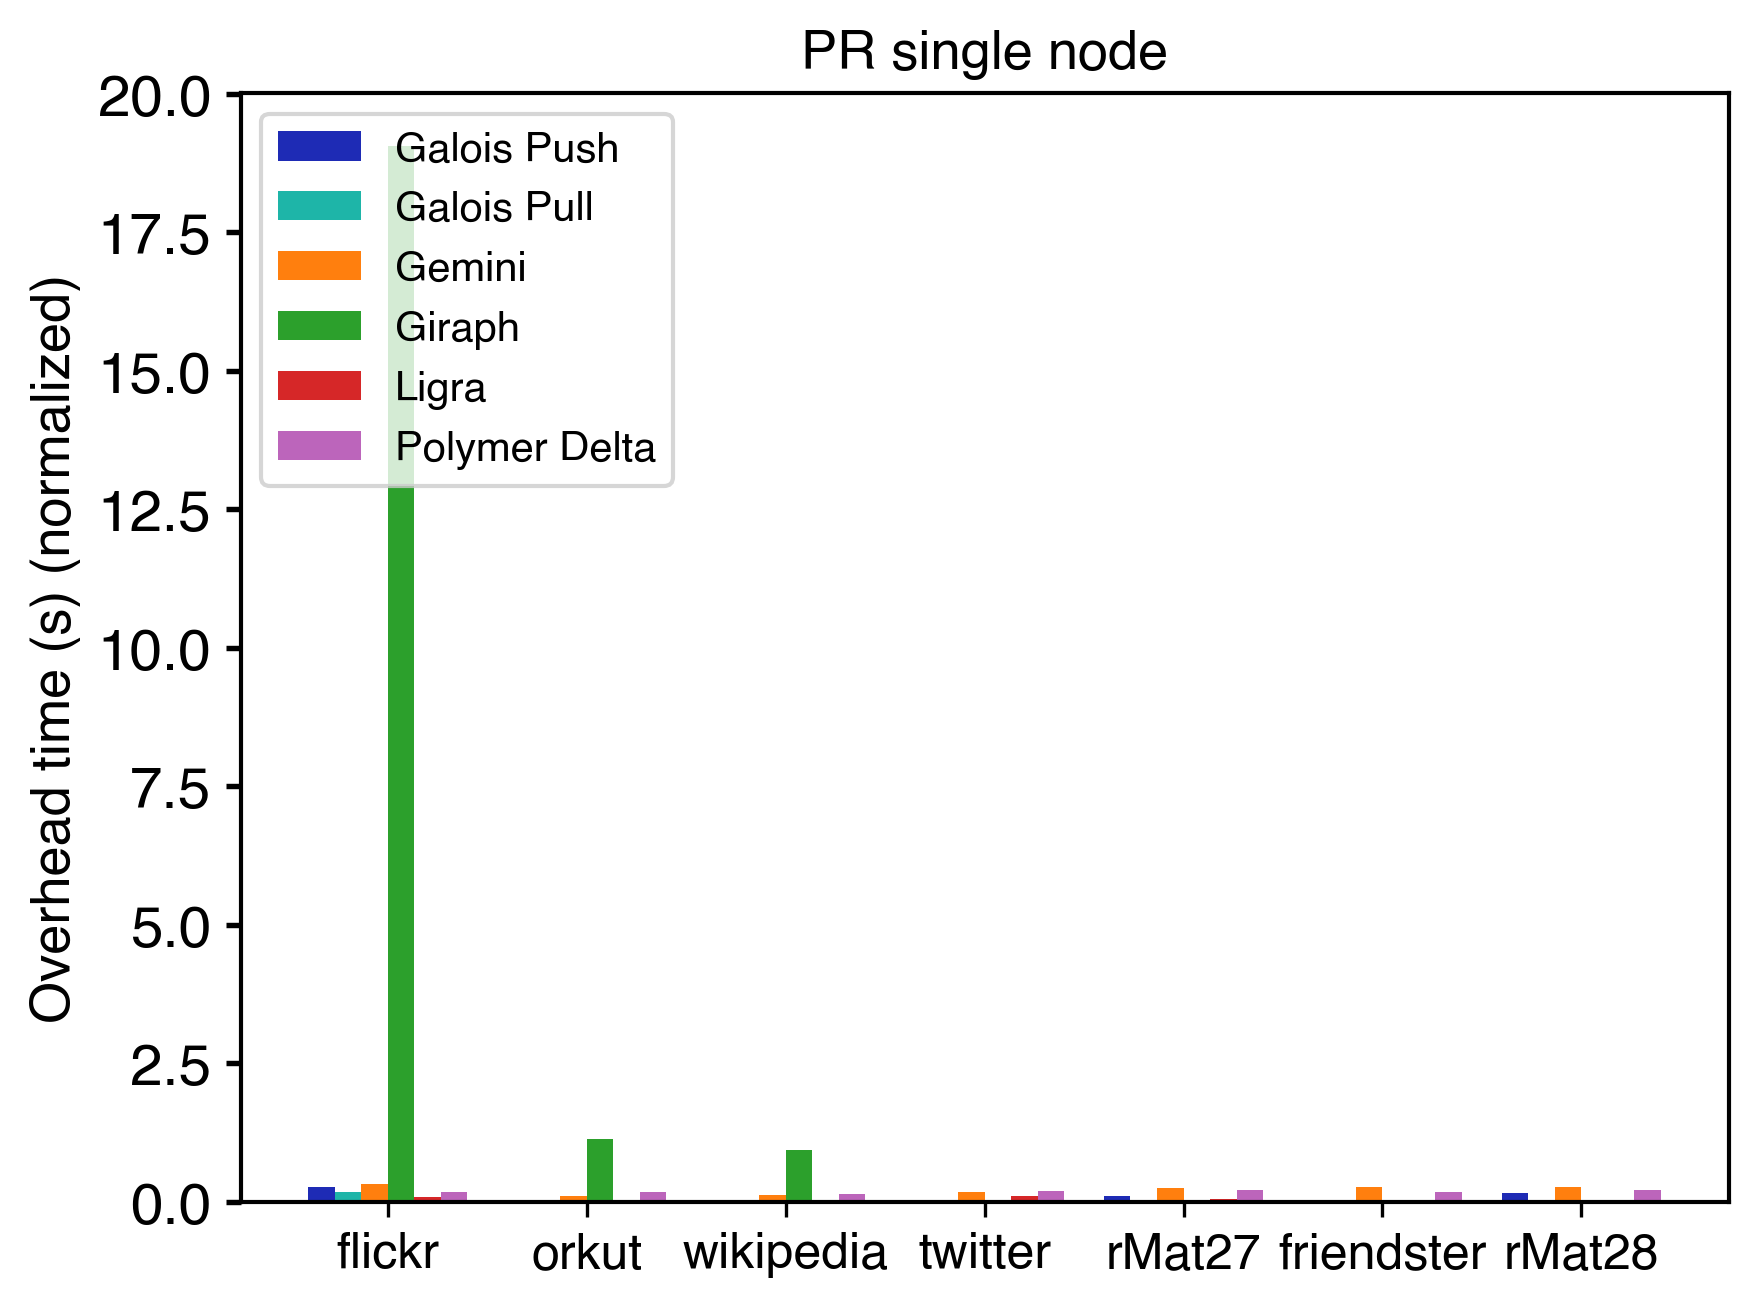
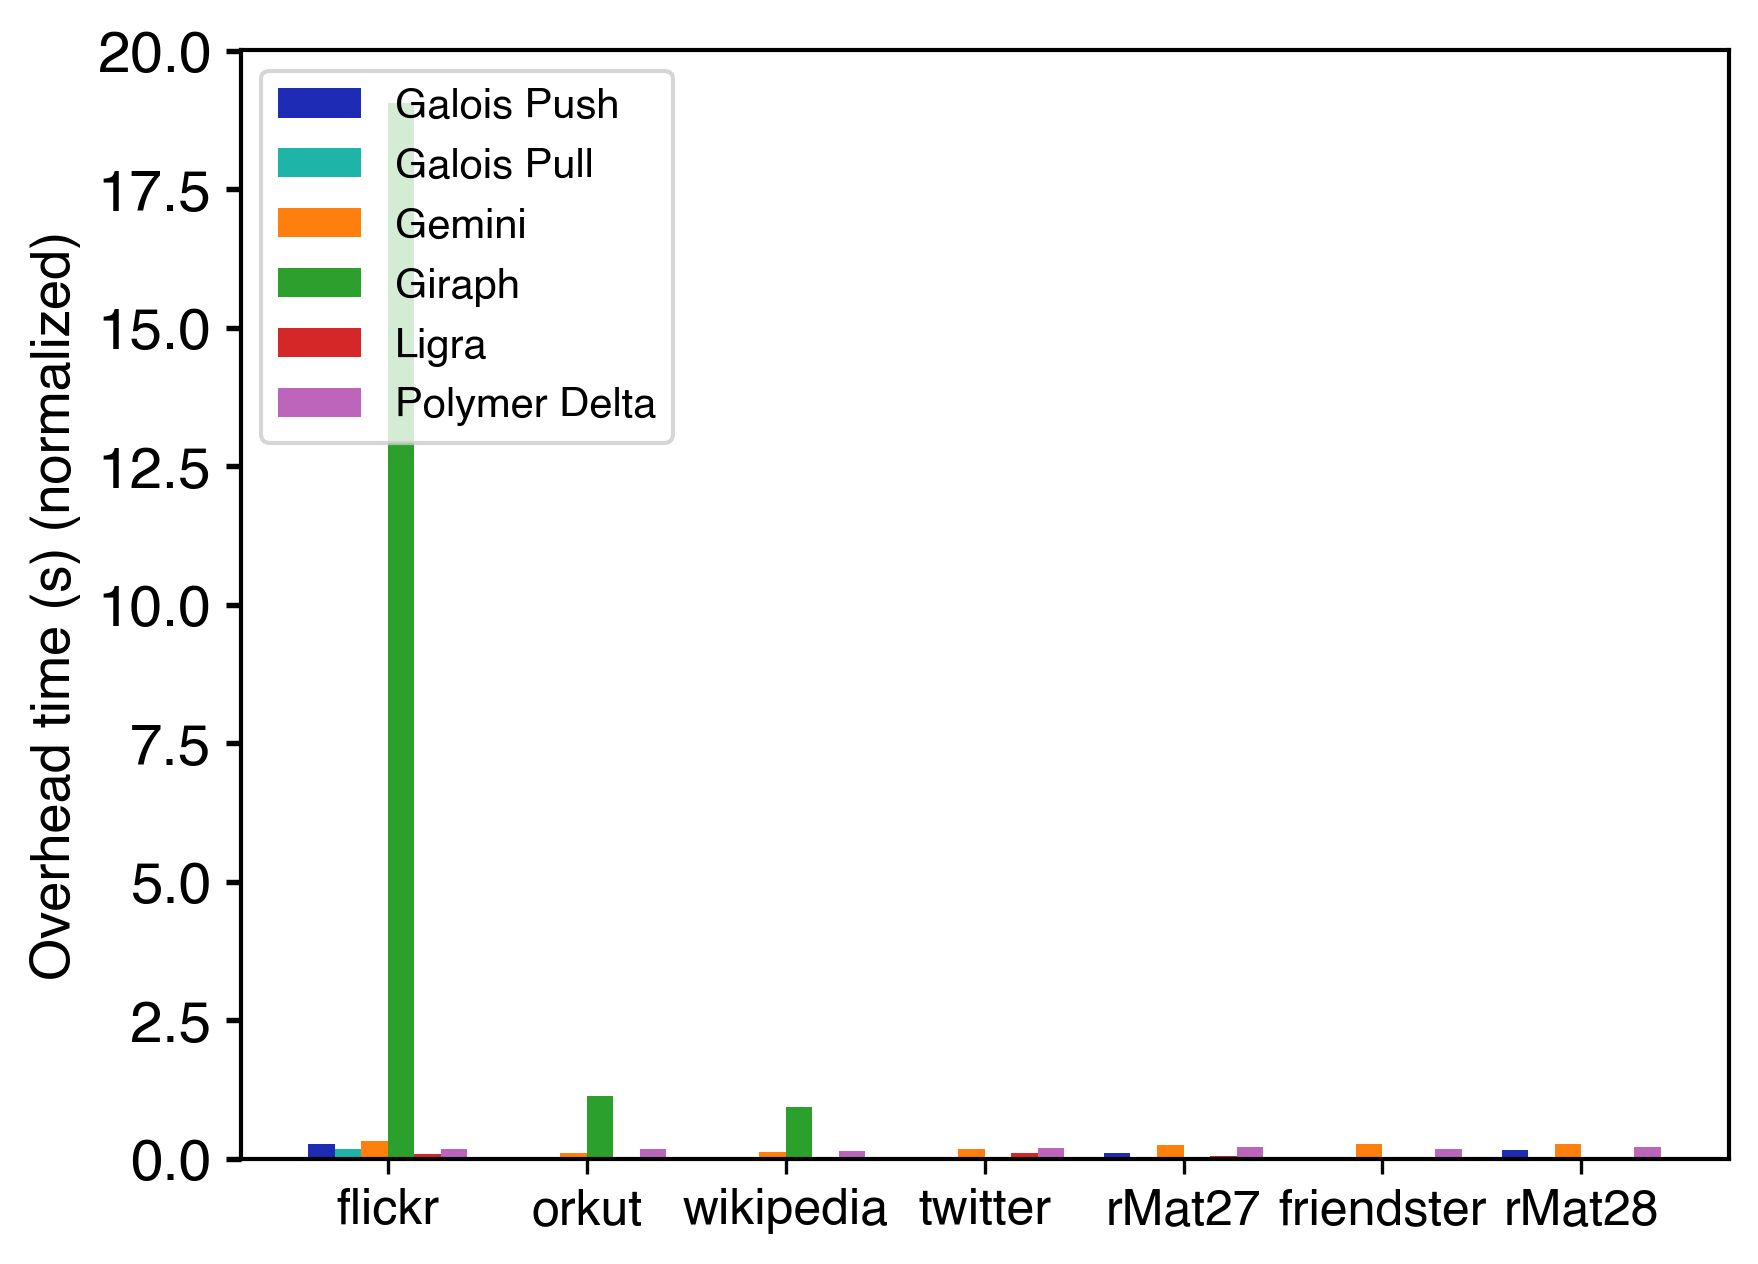
removed some titles in the plots

diff --git a/plots/makeplots.py b/plots/makeplots.py
@@ -7,9 +7,9 @@ from plotFunctions import *
 distributed = False
 singleNode = True
 
-sssp = True
+sssp = False
 bfs = False
-pr = False
+pr = True
 
 calcTimes = False
 execTimes = False
@@ -38,11 +38,11 @@ if singleNode and ( sssp or bfs or pr or calcTimes or execTimes or overheads):
 
 	#BFS
 	if bfs or calcTimes:
-		grouped_bar_plot(graphs, frameworks, calcTimeBFS_singleNode, yErrs=yErrCalcBFS_singleNode, title='BFS single node', yLabel='Calculation time (s)', saveToFile="singleNodeBFS_calcTime.png", colors_=colors)
+		grouped_bar_plot(graphs, frameworks, calcTimeBFS_singleNode, yErrs=yErrCalcBFS_singleNode, yLabel='Calculation time (s)', saveToFile="singleNodeBFS_calcTime.png", colors_=colors)
 
 	#PR
 	if pr or calcTimes:
-		grouped_bar_plot(graphs, list(singleNode_frameworks_pr.values()), calcTimePR_singleNode, yErrs=yErrCalcPR_singleNode, title='PR single node (ugly)', yLabel='Calculation time (s)', saveToFile="singleNodePR_calcTime.png", colors_=colors)
+		grouped_bar_plot(graphs, list(singleNode_frameworks_pr.values()), calcTimePR_singleNode, yErrs=yErrCalcPR_singleNode, yLabel='Calculation time (s)', saveToFile="singleNodePR_calcTime.png", colors_=colors)
 
 
 
@@ -54,11 +54,11 @@ if singleNode and ( sssp or bfs or pr or calcTimes or execTimes or overheads):
 
 	#BFS
 	if bfs or execTimes:
-		grouped_bar_plot(graphs, frameworks, execTimeBFS_singleNode, yErrs=yErrExecBFS_singleNode, title='BFS single node', yLabel='Execution time (s)', saveToFile="singleNodeBFS_execTime.png", colors_=colors)
+		grouped_bar_plot(graphs, frameworks, execTimeBFS_singleNode, yErrs=yErrExecBFS_singleNode, yLabel='Execution time (s)', saveToFile="singleNodeBFS_execTime.png", colors_=colors)
 
 	#PR
 	if pr or execTimes:
-		grouped_bar_plot(graphs, list(singleNode_frameworks_pr.values()), execTimePR_singleNode, yErrs=yErrExecPR_singleNode, title='PR single node (ugly)', yLabel='Execution time (s)', saveToFile="singleNodePR_execTime.png", colors_=colors)
+		grouped_bar_plot(graphs, list(singleNode_frameworks_pr.values()), execTimePR_singleNode, yErrs=yErrExecPR_singleNode, yLabel='Execution time (s)', saveToFile="singleNodePR_execTime.png", colors_=colors)
 
 
 
@@ -74,14 +74,14 @@ if singleNode and ( sssp or bfs or pr or calcTimes or execTimes or overheads):
 
 	#BFS
 	if bfs or overheads:
-		grouped_bar_plot(graphs, frameworks, overheadBFS_singleNode, title='Overhead time of each framework during BFS', yLabel='Overhead time (s)', saveToFile="singleNodeBFS_overheadTime.png", colors_=colors)
+		grouped_bar_plot(graphs, frameworks, overheadBFS_singleNode, yLabel='Overhead time (s)', saveToFile="singleNodeBFS_overheadTime.png", colors_=colors)
 
-		grouped_bar_plot(graphs, frameworks, overheadBFSNormalized_singleNode, title='BFS single node', yLabel='Overhead time (s) (normalized)', saveToFile="singleNodeBFS_overheadTimeNormalized.png", yScale='linear', colors_=colors)
+		grouped_bar_plot(graphs, frameworks, overheadBFSNormalized_singleNode, yLabel='Overhead time (s) (normalized)', saveToFile="singleNodeBFS_overheadTimeNormalized.png", yScale='linear', colors_=colors)
 
 	if pr or overheads:
-		grouped_bar_plot(graphs, list(singleNode_frameworks_pr.values()), overheadPR_singleNode, title='Overhead time of each framework during PR', yLabel='Overhead time (s)', saveToFile="singleNodePR_overheadTime.png", scaleFactor=3.25, colors_=colors)
+		grouped_bar_plot(graphs, list(singleNode_frameworks_pr.values()), overheadPR_singleNode, yLabel='Overhead time (s)', saveToFile="singleNodePR_overheadTime.png", colors_=colors)
 
-		grouped_bar_plot(graphs, list(singleNode_frameworks_pr.values()), overheadPRNormalized_singleNode, title='PR single node', yLabel='Overhead time (s) (normalized)', saveToFile="singleNodePR_overheadTimeNormalized.png", yScale='linear', colors_=colors)
+		grouped_bar_plot(graphs, list(singleNode_frameworks_pr.values()), overheadPRNormalized_singleNode, yLabel='Overhead time (s) (normalized)', saveToFile="singleNodePR_overheadTimeNormalized.png", yScale='linear', colors_=colors)
 
 
 
